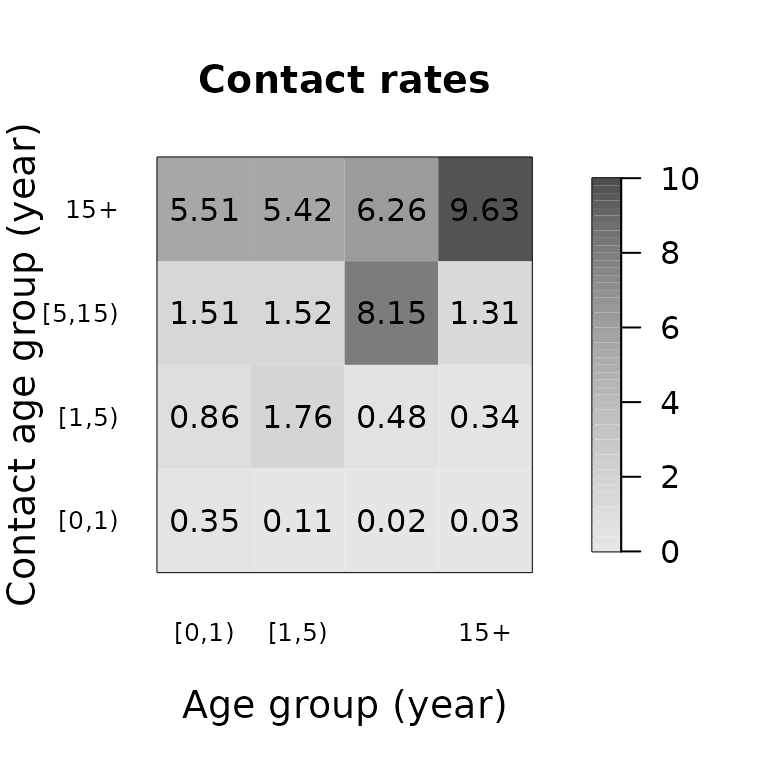
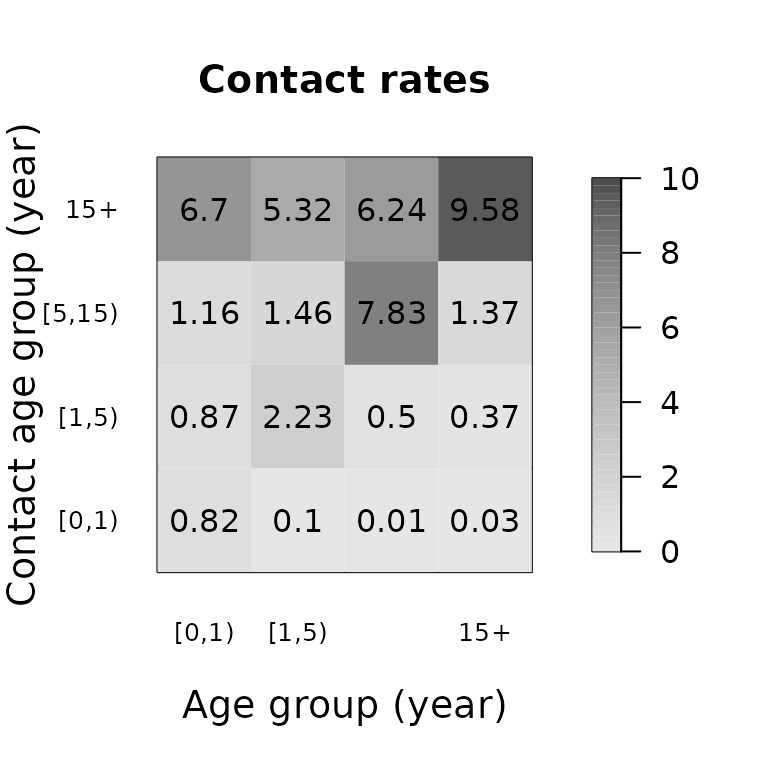
Deploying to gh-pages from @ epiforecasts/socialmixr@359ac0da9eb4e580e166524d3b925a01c6b51879 🚀

diff --git a/articles/socialmixr.html b/articles/socialmixr.html
@@ -72,7 +72,7 @@
                         <h4 data-toc-skip class="author">Sebastian
 Funk</h4>
             
-            <h4 data-toc-skip class="date">2023-10-19</h4>
+            <h4 data-toc-skip class="date">2023-10-24</h4>
       
       <small class="dont-index">Source: <a href="https://github.com/epiforecasts/socialmixr/blob/HEAD/vignettes/socialmixr.Rmd" class="external-link"><code>vignettes/socialmixr.Rmd</code></a></small>
       <div class="d-none name"><code>socialmixr.Rmd</code></div>
@@ -225,10 +225,10 @@ be obtained, for example the mean:</p>
 <span><span class="va">mr</span></span>
 <span><span class="co">#&gt;          contact.age.group</span></span>
 <span><span class="co">#&gt; age.group      [0,1)     [1,5)   [5,15)      15+</span></span>
-<span><span class="co">#&gt;    [0,1)  0.34952381 0.8561905 1.512063 5.513810</span></span>
-<span><span class="co">#&gt;    [1,5)  0.11038567 1.7565748 1.518764 5.424104</span></span>
-<span><span class="co">#&gt;    [5,15) 0.02379469 0.4786941 8.146463 6.255223</span></span>
-<span><span class="co">#&gt;    15+    0.03318165 0.3376102 1.306337 9.626637</span></span></code></pre></div>
+<span><span class="co">#&gt;    [0,1)  0.82339181 0.8668170 1.162322 6.703876</span></span>
+<span><span class="co">#&gt;    [1,5)  0.09997588 2.2308306 1.455029 5.319054</span></span>
+<span><span class="co">#&gt;    [5,15) 0.01478477 0.5042456 7.827919 6.237545</span></span>
+<span><span class="co">#&gt;    15+    0.02961982 0.3739091 1.369385 9.583542</span></span></code></pre></div>
 </div>
 <div class="section level2">
 <h2 id="demography">Demography<a class="anchor" aria-label="anchor" href="#demography"></a>
